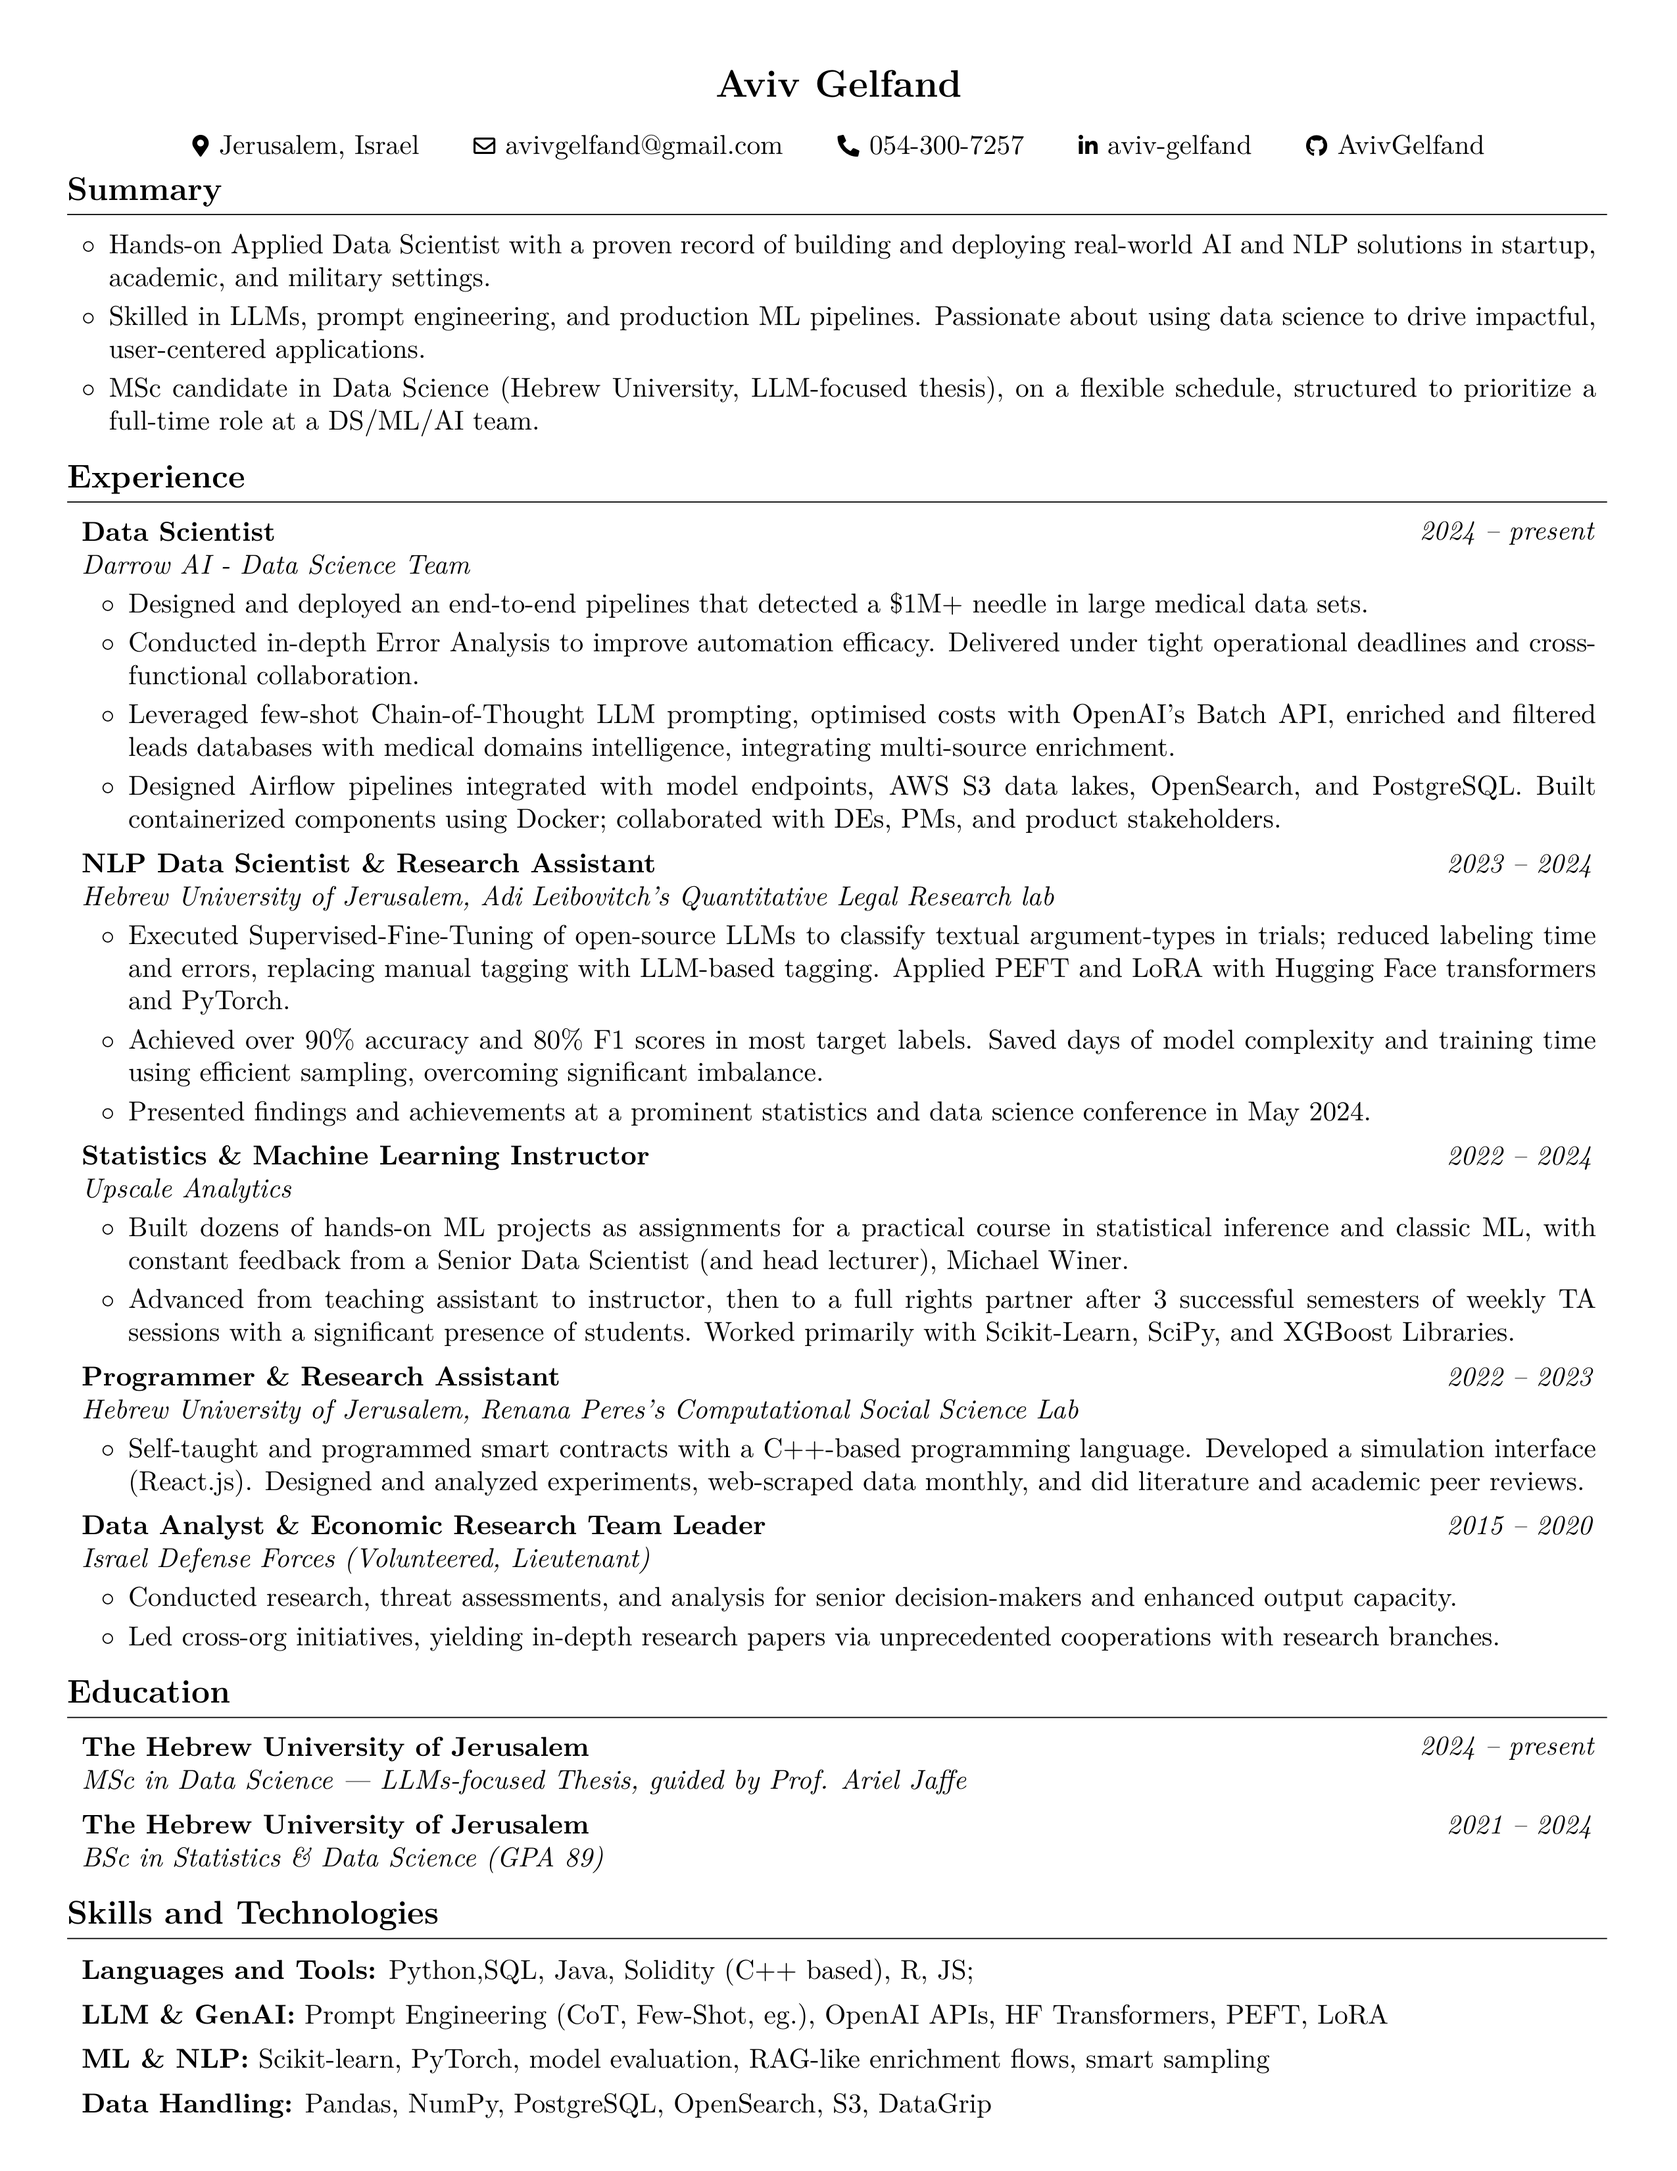
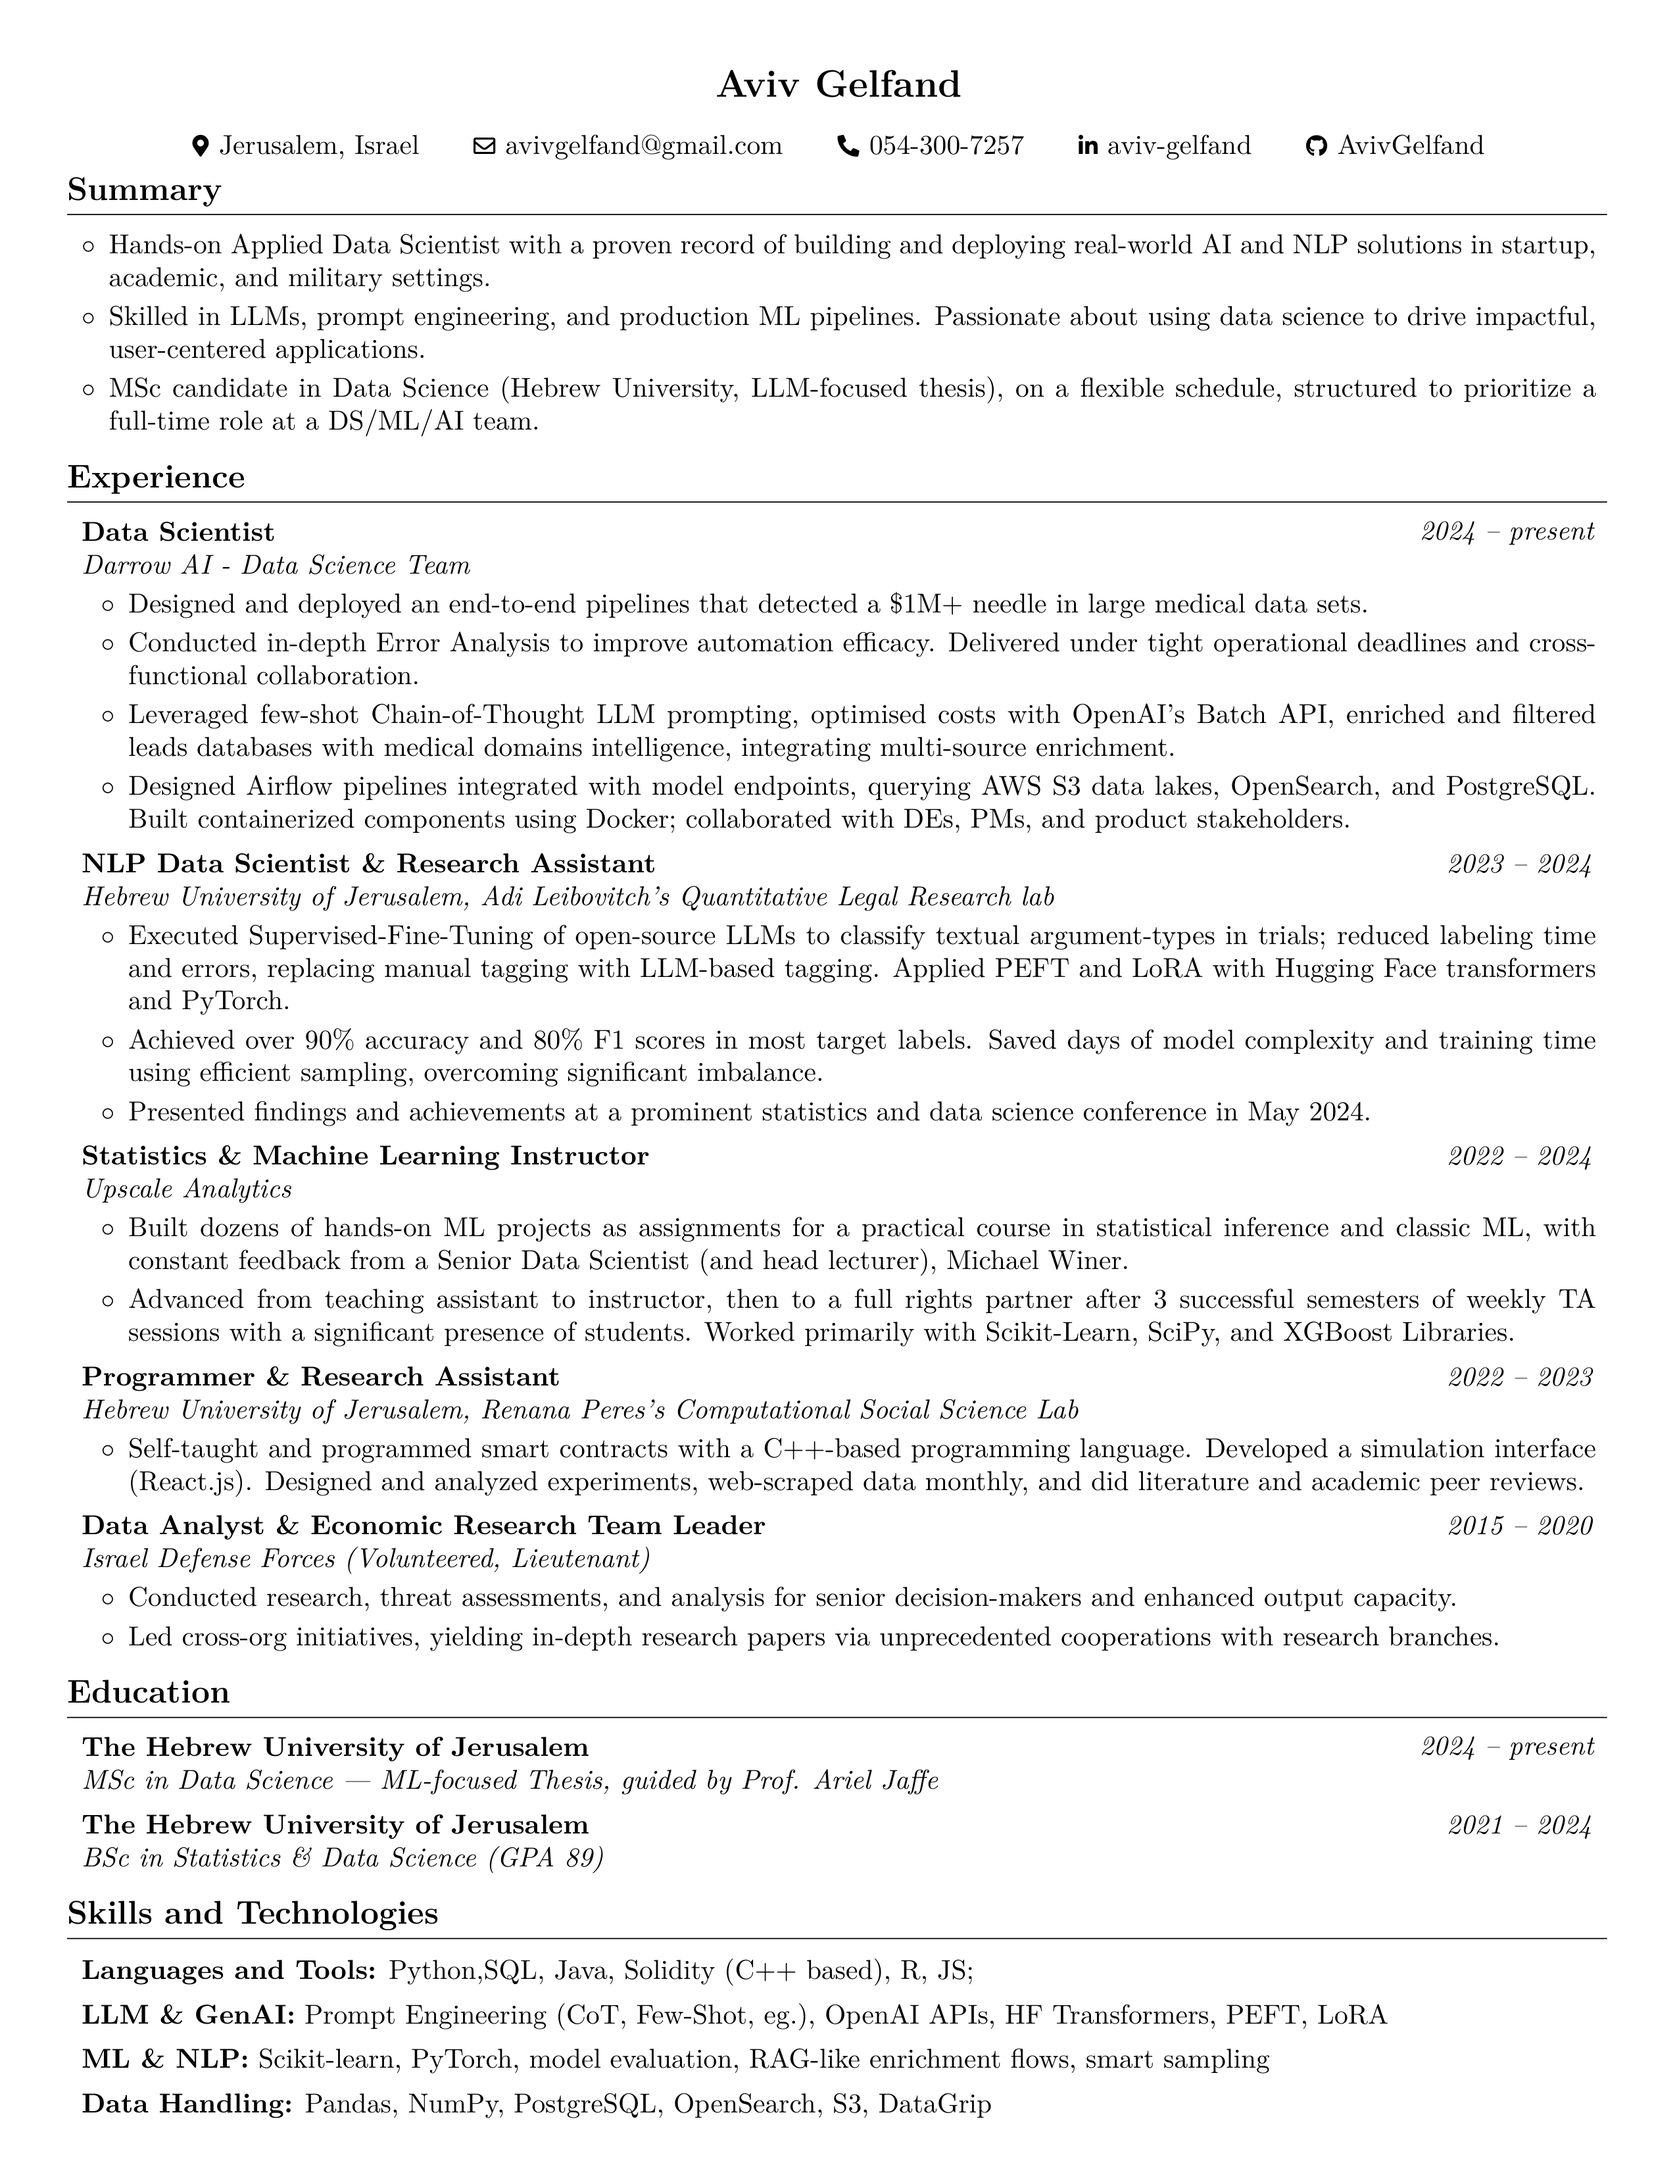
Render the latest CV

diff --git a/Aviv_Gelfand_CV.html b/Aviv_Gelfand_CV.html
@@ -53,7 +53,7 @@
         <li>Designed and deployed an end-to-end pipelines that detected a \$1M+ needle in large medical data sets.</li>
         <li>Conducted in-depth Error Analysis to improve automation efficacy. Delivered under tight operational deadlines and cross-functional collaboration.</li>
         <li>Leveraged few-shot Chain-of-Thought LLM prompting, optimised costs with OpenAI’s Batch API, enriched and filtered leads databases with medical domains intelligence, integrating multi-source enrichment.</li>
-        <li>Designed Airflow pipelines integrated with model endpoints, AWS S3 data lakes, OpenSearch, and PostgreSQL. Built containerized components using Docker; collaborated with DEs, PMs, and product stakeholders.</li>
+        <li>Designed Airflow pipelines integrated with model endpoints, querying AWS S3 data lakes, OpenSearch, and PostgreSQL. Built containerized components using Docker; collaborated with DEs, PMs, and product stakeholders.</li>
         </ul>
         <h2>Hebrew University of Jerusalem, Adi Leibovitch's Quantitative Legal Research lab, NLP Data Scientist &amp; Research Assistant</h2>
         <ul>
@@ -80,7 +80,7 @@
         <li>Led cross-org initiatives, yielding in-depth research papers via unprecedented cooperations with research branches.</li>
         </ul>
         <h1>Education</h1>
-        <h2>The Hebrew University of Jerusalem, MSc in Data Science | LLMs-focused Thesis, guided by Prof. Ariel Jaffe</h2>
+        <h2>The Hebrew University of Jerusalem, MSc in Data Science | ML-focused Thesis, guided by Prof. Ariel Jaffe</h2>
         <ul>
         <li>2024 – present</li>
         </ul>

diff --git a/Aviv_Gelfand_CV.tex b/Aviv_Gelfand_CV.tex
@@ -211,7 +211,7 @@
                 \item Designed and deployed an end-to-end pipelines that detected a \$1M+ needle in large medical data sets.
                 \item Conducted in-depth Error Analysis to improve automation efficacy. Delivered under tight operational deadlines and cross-functional collaboration.
                 \item Leveraged few-shot Chain-of-Thought LLM prompting, optimised costs with OpenAI’s Batch API, enriched and filtered leads databases with medical domains intelligence, integrating multi-source enrichment.
-                \item Designed Airflow pipelines integrated with model endpoints, AWS S3 data lakes, OpenSearch, and PostgreSQL. Built containerized components using Docker; collaborated with DEs, PMs, and product stakeholders.
+                \item Designed Airflow pipelines integrated with model endpoints, querying AWS S3 data lakes, OpenSearch, and PostgreSQL. Built containerized components using Docker; collaborated with DEs, PMs, and product stakeholders.
             \end{highlights}
         \end{onecolentry}
 
@@ -309,7 +309,7 @@
         \textit{2024 – present}}
             \textbf{The Hebrew University of Jerusalem}
 
-            \textit{MSc in Data Science | LLMs-focused Thesis, guided by Prof. Ariel Jaffe}
+            \textit{MSc in Data Science | ML-focused Thesis, guided by Prof. Ariel Jaffe}
         \end{twocolentry}
 
 

diff --git a/README.md b/README.md
@@ -22,7 +22,7 @@
 - Designed and deployed an end-to-end pipelines that detected a \$1M+ needle in large medical data sets.
 - Conducted in-depth Error Analysis to improve automation efficacy. Delivered under tight operational deadlines and cross-functional collaboration.
 - Leveraged few-shot Chain-of-Thought LLM prompting, optimised costs with OpenAI’s Batch API, enriched and filtered leads databases with medical domains intelligence, integrating multi-source enrichment.
-- Designed Airflow pipelines integrated with model endpoints, AWS S3 data lakes, OpenSearch, and PostgreSQL. Built containerized components using Docker; collaborated with DEs, PMs, and product stakeholders.
+- Designed Airflow pipelines integrated with model endpoints, querying AWS S3 data lakes, OpenSearch, and PostgreSQL. Built containerized components using Docker; collaborated with DEs, PMs, and product stakeholders.
 
 ## Hebrew University of Jerusalem, Adi Leibovitch's Quantitative Legal Research lab, NLP Data Scientist & Research Assistant
 
@@ -50,7 +50,7 @@
 
 # Education
 
-## The Hebrew University of Jerusalem, MSc in Data Science | LLMs-focused Thesis, guided by Prof. Ariel Jaffe
+## The Hebrew University of Jerusalem, MSc in Data Science | ML-focused Thesis, guided by Prof. Ariel Jaffe
 
 - 2024 – present
 
